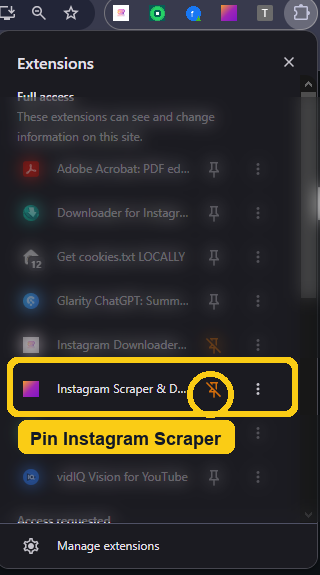
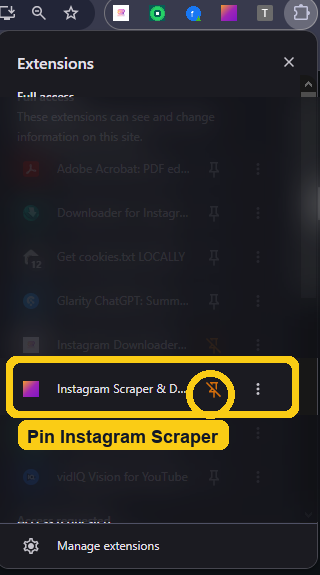
Improve Instagram extension setup guide

diff --git a/templates/instagram_extension.html b/templates/instagram_extension.html
@@ -78,47 +78,68 @@
 
     <section class="extension-section">
       <h2>Visual Setup Steps</h2>
-      <div class="screenshot-grid">
-        <article class="screenshot-card screenshot-wide">
+      <div class="setup-flow">
+        <article class="setup-step">
+          <div class="step-copy">
+            <span class="step-number">1</span>
+            <h3>Check Developer mode</h3>
+            <p>Open <strong>chrome://extensions</strong>. If Developer mode is inactive, the switch in the top-right corner is grey.</p>
+          </div>
           <img class="real-screenshot" src="/static/images/extension/developer-mode-off.png" alt="Chrome Extensions page with Developer mode inactive">
-          <strong>1. Check Developer mode</strong>
-          <p>Open <strong>chrome://extensions</strong>. If Developer mode is inactive, the switch in the top-right corner is grey.</p>
         </article>
 
-        <article class="screenshot-card screenshot-wide">
+        <article class="setup-step">
+          <div class="step-copy">
+            <span class="step-number">2</span>
+            <h3>Activate Developer mode</h3>
+            <p>Turn Developer mode on. When it is active, Chrome shows the <strong>Load unpacked</strong> button.</p>
+          </div>
           <img class="real-screenshot" src="/static/images/extension/developer-mode-on.png" alt="Chrome Extensions page with Developer mode active and Load unpacked visible">
-          <strong>2. Activate Developer mode</strong>
-          <p>Turn Developer mode on. When it is active, Chrome shows the <strong>Load unpacked</strong> button.</p>
         </article>
 
-        <article class="screenshot-card">
+        <article class="setup-step">
+          <div class="step-copy">
+            <span class="step-number">3</span>
+            <h3>Load the extension folder</h3>
+            <p>Click <strong>Load unpacked</strong> and choose the extracted folder that contains <strong>manifest.json</strong>.</p>
+          </div>
           <img class="real-screenshot" src="/static/images/extension/load-unpacked-highlight.png" alt="Chrome Extensions page with the Load unpacked button highlighted">
-          <strong>3. Load the extension folder</strong>
-          <p>Click Load unpacked and choose the extracted folder that contains manifest.json.</p>
         </article>
 
-        <article class="screenshot-card screenshot-compact">
-          <img class="real-screenshot" src="/static/images/extension/find-extension-icon.png" alt="Chrome toolbar with the Extensions icon highlighted">
-          <strong>4. Find the extension menu</strong>
-          <p>Click the Extensions icon in Chrome's toolbar to find installed extensions.</p>
+        <article class="setup-step setup-step-split">
+          <div class="step-copy">
+            <span class="step-number">4</span>
+            <h3>Find the extension menu</h3>
+            <p>Click the Extensions icon in Chrome's toolbar to find installed extensions.</p>
+          </div>
+          <img class="real-screenshot compact-shot" src="/static/images/extension/find-extension-icon.png" alt="Chrome toolbar with the Extensions icon highlighted">
         </article>
 
-        <article class="screenshot-card screenshot-compact">
-          <img class="real-screenshot" src="/static/images/extension/pin-extension-highlight.png" alt="Chrome Extensions menu with Instagram Scraper highlighted and pin icon circled">
-          <strong>5. Pin Instagram Scraper</strong>
-          <p>Find Instagram Scraper in the menu, then click the pin icon so it stays visible in Chrome.</p>
+        <article class="setup-step setup-step-split">
+          <div class="step-copy">
+            <span class="step-number">5</span>
+            <h3>Pin Instagram Scraper</h3>
+            <p>Find Instagram Scraper in the menu, then click the pin icon so it stays visible in Chrome.</p>
+          </div>
+          <img class="real-screenshot menu-shot" src="/static/images/extension/pin-extension-highlight.png" alt="Chrome Extensions menu with Instagram Scraper highlighted and pin icon circled">
         </article>
 
-        <article class="screenshot-card">
+        <article class="setup-step">
+          <div class="step-copy">
+            <span class="step-number">6</span>
+            <h3>Extract all metadata, or choose a date range</h3>
+            <p>This step is optional. To collect all metadata, open any Instagram account and click <strong>Extract Posts</strong>. To collect only a specific period, choose the date range first, then extract or download.</p>
+          </div>
           <img class="real-screenshot" src="/static/images/extension/extension-popup-date-range.png" alt="Instagram Scraper popup with date range fields and action buttons highlighted">
-          <strong>6. Choose a date range</strong>
-          <p>Open an Instagram profile, choose dates, then extract data or download media from that period.</p>
         </article>
 
-        <article class="screenshot-card screenshot-compact">
-          <img class="real-screenshot" src="/static/images/extension/instagram-profile-select-search.png" alt="Instagram profile with Select button and Description Search area highlighted">
-          <strong>7. Select content and search captions</strong>
-          <p>Use Select to choose profile content for download. Use Description Search to search words inside Instagram profile captions.</p>
+        <article class="setup-step setup-step-split">
+          <div class="step-copy">
+            <span class="step-number">7</span>
+            <h3>Select content and search captions</h3>
+            <p>Use <strong>Select</strong> to choose profile content for download. The second bar, <strong>Description Search</strong>, searches words inside Instagram profile captions.</p>
+          </div>
+          <img class="real-screenshot menu-shot" src="/static/images/extension/instagram-profile-select-search.png" alt="Instagram profile with Select button and Description Search area highlighted">
         </article>
       </div>
     </section>

diff --git a/static/site.css b/static/site.css
@@ -379,21 +379,6 @@ body {
   color: var(--text);
 }
 
-.screenshot-grid {
-  display: grid;
-  grid-template-columns: repeat(2, minmax(0, 1fr));
-  gap: 16px;
-}
-
-.screenshot-card {
-  display: grid;
-  gap: 12px;
-}
-
-.screenshot-wide {
-  grid-column: 1 / -1;
-}
-
 .real-screenshot {
   display: block;
   width: 100%;
@@ -404,166 +389,64 @@ body {
   box-shadow: 0 12px 28px rgba(16, 24, 40, 0.12);
 }
 
-.screenshot-compact .real-screenshot {
+.setup-flow {
+  display: grid;
+  gap: 18px;
+}
+
+.setup-step {
+  display: grid;
+  grid-template-columns: 290px minmax(0, 1fr);
+  gap: 24px;
+  align-items: start;
+  padding: 20px;
+  border: 1px solid var(--border);
+  border-radius: 8px;
+  background: #fbfcff;
+}
+
+.setup-step-split {
+  grid-template-columns: 290px auto;
+  justify-content: start;
+}
+
+.step-copy {
+  min-width: 0;
+}
+
+.step-number {
+  width: 34px;
+  height: 34px;
+  display: inline-grid;
+  place-items: center;
+  margin-bottom: 12px;
+  border-radius: 999px;
+  background: #e5322d;
+  color: #fff;
+  font-size: 15px;
+  font-weight: 900;
+}
+
+.step-copy h3 {
+  margin: 0 0 8px;
+  font-size: 22px;
+}
+
+.step-copy p {
+  margin: 0;
+  color: var(--muted);
+  font-size: 15px;
+  line-height: 1.55;
+}
+
+.step-copy strong {
+  color: var(--text);
+}
+
+.compact-shot,
+.menu-shot {
   width: auto;
   max-width: 100%;
-  justify-self: start;
-}
-
-.screenshot-card > strong {
-  font-size: 18px;
-}
-
-.screenshot-card p {
-  margin: -4px 0 0;
-  font-size: 14px;
-}
-
-.fake-window {
-  min-height: 210px;
-  padding: 18px;
-  border: 1px solid #cfd7e6;
-  border-radius: 8px;
-  background: #f8fafc;
-  box-shadow: inset 0 1px 0 #fff;
-}
-
-.fake-window-bar {
-  display: flex;
-  gap: 6px;
-  margin-bottom: 22px;
-}
-
-.fake-window-bar span {
-  width: 10px;
-  height: 10px;
-  border-radius: 50%;
-  background: #cbd5e1;
-}
-
-.fake-download {
-  display: flex;
-  align-items: center;
-  gap: 14px;
-  padding: 16px;
-  border: 1px solid var(--border);
-  border-radius: 8px;
-  background: #fff;
-}
-
-.zip-icon {
-  width: 52px;
-  height: 52px;
-  display: grid;
-  place-items: center;
-  border-radius: 8px;
-  background: #7c3aed;
-  color: #fff;
-  font-size: 13px;
-  font-weight: 900;
-}
-
-.fake-download div:last-child {
-  display: grid;
-  gap: 5px;
-}
-
-.fake-download span,
-.fake-row,
-.fake-folder,
-.fake-popup label {
-  color: var(--muted);
-  font-size: 14px;
-}
-
-.fake-address {
-  margin-bottom: 22px;
-  padding: 12px 14px;
-  border: 1px solid #d6deeb;
-  border-radius: 999px;
-  background: #fff;
-  color: var(--text);
-  font-weight: 800;
-}
-
-.fake-row {
-  display: grid;
-  grid-template-columns: 1fr auto auto;
-  align-items: center;
-  gap: 12px;
-  padding: 16px;
-  border: 1px solid var(--border);
-  border-radius: 8px;
-  background: #fff;
-}
-
-.fake-row b {
-  color: var(--text);
-}
-
-.fake-row i {
-  padding: 5px 10px;
-  border-radius: 999px;
-  background: #dcfce7;
-  color: #166534;
-  font-style: normal;
-  font-weight: 900;
-}
-
-.fake-button-row {
-  display: flex;
-  gap: 10px;
-  flex-wrap: wrap;
-  margin-bottom: 22px;
-}
-
-.fake-button-row button,
-.fake-popup button {
-  border: 0;
-  border-radius: 8px;
-  background: var(--red);
-  color: #fff;
-  padding: 10px 14px;
-  font-weight: 900;
-}
-
-.fake-folder {
-  padding: 24px;
-  border: 2px dashed #cfd7e6;
-  border-radius: 8px;
-  background: #fff;
-  text-align: center;
-}
-
-.fake-popup {
-  display: grid;
-  gap: 10px;
-  align-content: start;
-  background: #111827;
-}
-
-.popup-title {
-  color: #fff;
-  font-size: 18px;
-  font-weight: 900;
-}
-
-.fake-popup label {
-  display: flex;
-  justify-content: space-between;
-  gap: 12px;
-  padding: 10px 12px;
-  border-radius: 8px;
-  background: #fff;
-}
-
-.fake-popup label span {
-  color: var(--text);
-  font-weight: 800;
-}
-
-.fake-popup button {
-  background: #e5322d;
 }
 
 @media (max-width: 900px) {
@@ -577,8 +460,10 @@ body {
     grid-template-columns: 1fr;
   }
 
-  .screenshot-grid {
+  .setup-step,
+  .setup-step-split {
     grid-template-columns: 1fr;
+    justify-content: stretch;
   }
 
   .extension-section {
